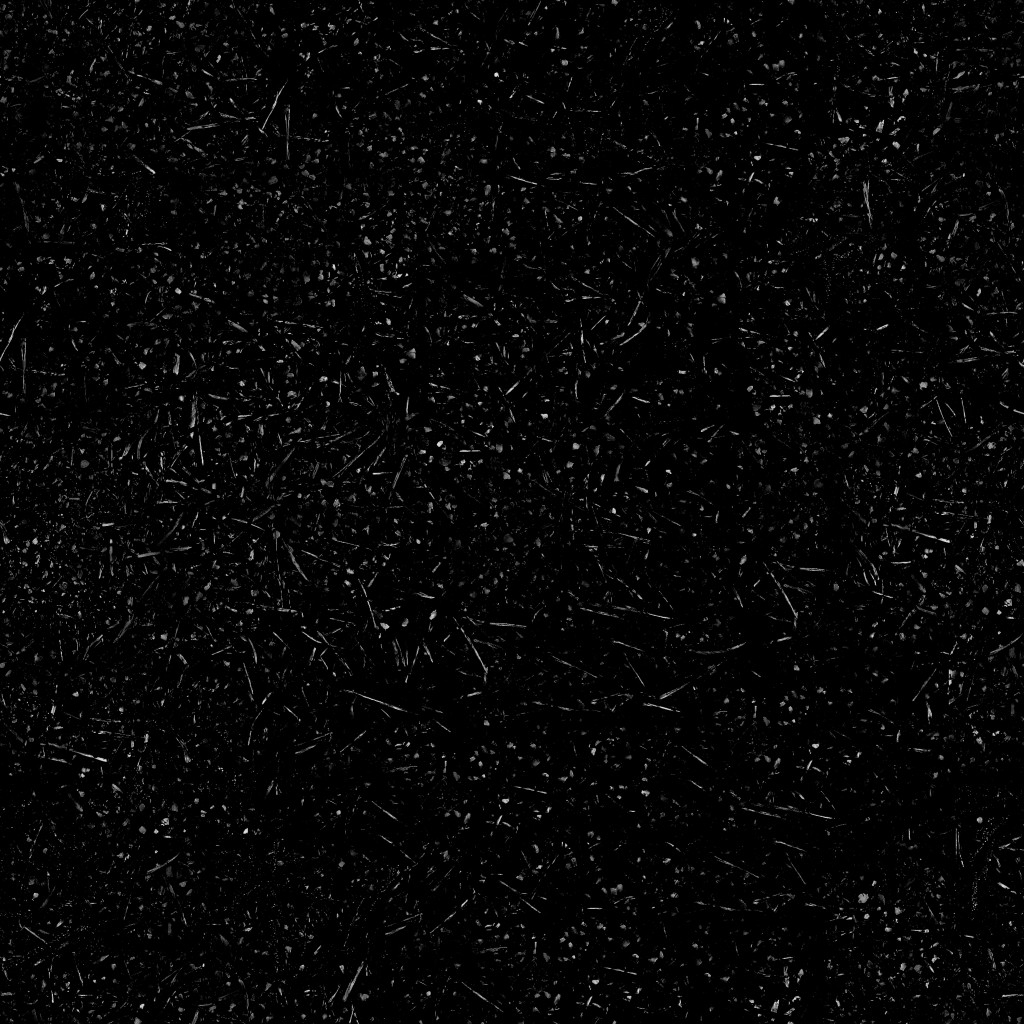
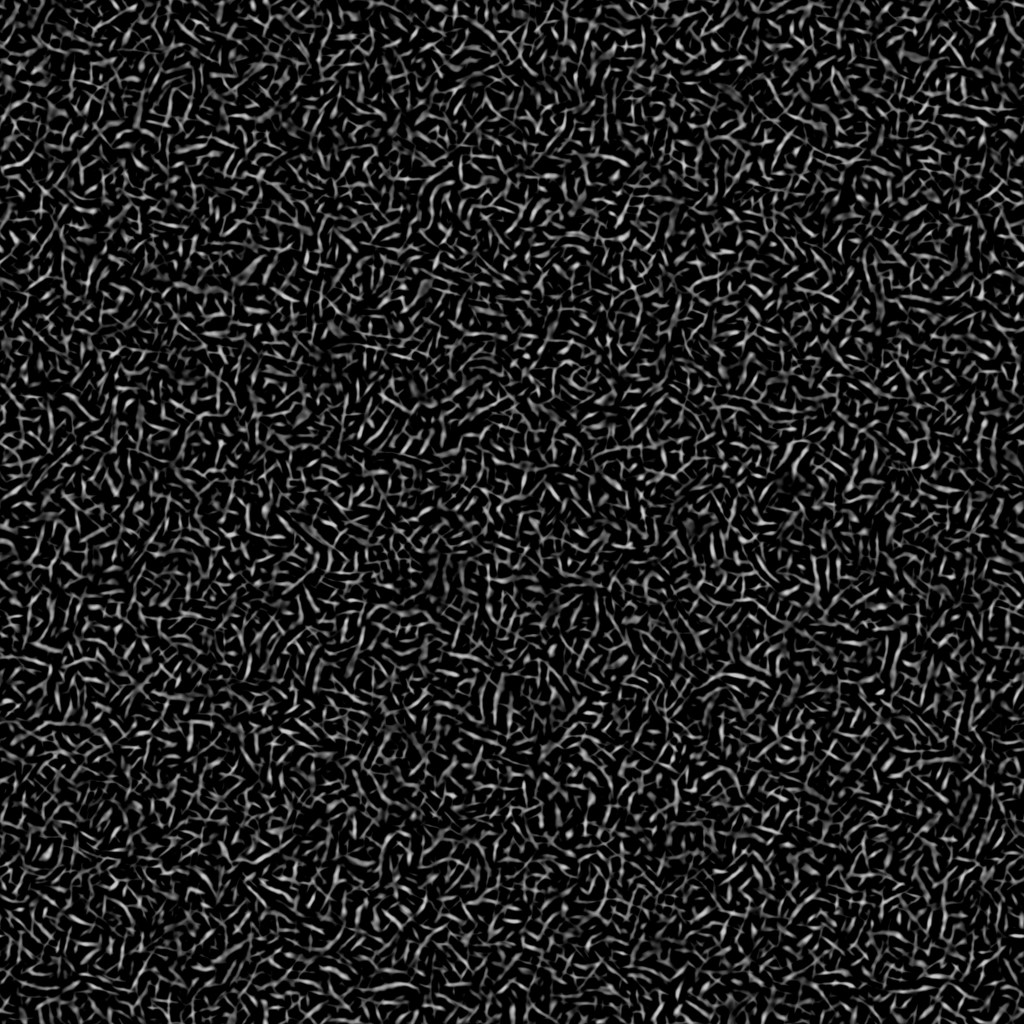
add textures

diff --git a/src/materials.ts b/src/materials.ts
@@ -1,9 +1,17 @@
 import * as Three from "three";
 import { loader } from "./textures";
 
-export const TRAIN = new Three.MeshPhongMaterial({
+const train_loader = loader("train", 2, 2);
+
+export const TRAIN = new Three.MeshPhysicalMaterial({
+    map: train_loader("texture.jpg"),
+    normalMap: train_loader("normal.jpg"),
+    normalScale: new Three.Vector2(10, 10),
+    aoMap: train_loader("ao.jpg"),
+    roughnessMap: train_loader("roughness.jpg"),
+    metalnessMap: train_loader("metallic.jpg"),
     color: 0x7e1414,
-    shininess: 100,
+    // shininess: 100,
 });
 
 const gravel_loader = loader("gravel", 1, 1);
@@ -13,7 +21,7 @@ export const GROUND = new Three.MeshPhysicalMaterial({
     normalMap: gravel_loader("normal.jpg"),
     normalScale: new Three.Vector2(10, 10),
     aoMap: gravel_loader("ao.jpg"),
-    roughnessMap: gravel_loader("roughtness.jpg"),
+    roughnessMap: gravel_loader("roughness.jpg"),
     color: 0xaaaaaa,
     // shininess: 15,
 });
@@ -23,52 +31,98 @@ export const PLASTIC = new Three.MeshPhongMaterial({
     shininess: 30,
 });
 
-export const RUBBER = new Three.MeshPhongMaterial({
+const metal_loader = loader("metal", 1, 1);
+
+export const RUBBER = new Three.MeshPhysicalMaterial({
+    map: metal_loader("texture.jpg"),
+    normalMap: metal_loader("normal.jpg"),
+    normalScale: new Three.Vector2(10, 10),
+    aoMap: metal_loader("ao.jpg"),
+    roughnessMap: metal_loader("roughness.jpg"),
+    metalnessMap: metal_loader("metallic.jpg"),
     color: "black",
-    shininess: 0,
+    // shininess: 0,
 });
 
-const metal_loader = loader("metal", 1, 1);
 
 export const METAL = new Three.MeshPhysicalMaterial({
     map: metal_loader("texture.jpg"),
     normalMap: metal_loader("normal.jpg"),
     normalScale: new Three.Vector2(10, 10),
     aoMap: metal_loader("ao.jpg"),
-    roughnessMap: metal_loader("roughtness.jpg"),
-    metalnessMap: metal_loader("metallic.jpg")
+    roughnessMap: metal_loader("roughness.jpg"),
+    metalnessMap: metal_loader("metallic.jpg"),
     // color: "silver",
     // shininess: 400,
 });
 
-export const WOOD = new Three.MeshPhongMaterial({
-    color: 0x493a24,
-    shininess: 10,
+const wood_loader = loader("trunk", 4, 4);
+
+export const WOOD = new Three.MeshPhysicalMaterial({
+    map: wood_loader("texture.jpg"),
+    normalMap: wood_loader("normal.jpg"),
+    normalScale: new Three.Vector2(10, 10),
+    aoMap: wood_loader("ao.jpg"),
+    roughnessMap: wood_loader("roughness.jpg"),
+    // color: 0x493a24,
+    // shininess: 10,
 });
 
+const leaves1_loader = loader("leaves2", 2, 2);
+const leaves2_loader = loader("leaves1", 6, 6);
+
 export const LEAVES = [
-    new Three.MeshPhongMaterial({
+    new Three.MeshPhysicalMaterial({
+        map: leaves1_loader("texture.jpg"),
+        normalMap: leaves1_loader("normal.jpg"),
+        normalScale: new Three.Vector2(5, 5),
+        aoMap: leaves1_loader("ao.jpg"),
+        roughnessMap: leaves1_loader("roughness.jpg"),
         color: 0x448912,
-        shininess: 50,
+        // shininess: 50,
     }),
-    new Three.MeshPhongMaterial({
+    new Three.MeshPhysicalMaterial({
+        map: leaves2_loader("texture.jpg"),
+        normalMap: leaves2_loader("normal.jpg"),
+        normalScale: new Three.Vector2(5, 5),
+        aoMap: leaves2_loader("ao.jpg"),
+        roughnessMap: leaves2_loader("roughness.jpg"),
         color: "green",
-        shininess: 10,
+        // shininess: 10,
     }),
-    new Three.MeshPhongMaterial({
+    new Three.MeshPhysicalMaterial({
+        map: leaves2_loader("texture.jpg"),
+        normalMap: leaves2_loader("normal.jpg"),
+        normalScale: new Three.Vector2(5, 5),
+        aoMap: leaves2_loader("ao.jpg"),
+        roughnessMap: leaves2_loader("roughness.jpg"),
         color: 0xc2dc1e,
-        shininess: 100,
+        // shininess: 100,
     }),
 ];
 
-export const BRICK = new Three.MeshPhongMaterial({
-    color: 0x945d43,
-    shininess: 50,
+const brick_loader = loader("brick", 0.1, 0.1);
+
+export const BRICK = new Three.MeshPhysicalMaterial({
+    map: brick_loader("texture.jpg"),
+    normalMap: brick_loader("normal.jpg"),
+    normalScale: new Three.Vector2(10, 10),
+    aoMap: brick_loader("ao.jpg"),
+    roughnessMap: brick_loader("roughness.jpg"),
+    metalnessMap: brick_loader("metallic.jpg"),
+    // color: 0x945d43,
+    // shininess: 50,
 });
 
-export const LAMP = new Three.MeshPhongMaterial({
+export const LAMP = new Three.MeshPhysicalMaterial({
+    map: metal_loader("texture.jpg"),
+    normalMap: metal_loader("normal.jpg"),
+    normalScale: new Three.Vector2(10, 10),
+    aoMap: metal_loader("ao.jpg"),
+    roughnessMap: metal_loader("roughness.jpg"),
+    metalnessMap: metal_loader("metallic.jpg"),
     color: 0x1e1e1e,
-    shininess: 70,
+    // shininess: 70,
 });
 
 export const LIGHT_ON = new Three.MeshPhongMaterial({
@@ -97,6 +151,6 @@ export const SLEEPER = new Three.MeshPhysicalMaterial({
     normalMap: sleeper_loader("normal.jpg"),
     normalScale: new Three.Vector2(10, 10),
     aoMap: sleeper_loader("ao.jpg"),
-    roughnessMap: sleeper_loader("roughtness.jpg"),
+    roughnessMap: sleeper_loader("roughness.jpg"),
     // shininess: 10,
 });

diff --git a/src/terrain.ts b/src/terrain.ts
@@ -10,38 +10,25 @@ export function build_terrain(scene: Three.Scene) {
     const loader = new Three.TextureLoader().setPath("images/maps/");
 
     const heightMap = loader.load("terrain/height.png");
-    const normalMap = loader.load("terrain/normal.png");
-
-    // const groundMaterial = new Three.MeshPhongMaterial({
-    //     color: 0x1d5121,
-    //     displacementMap: heightMap,
-    //     normalMap: normalMap,
-    //     displacementScale: 200,
-    //     shininess: 15,
-    // });
 
     const groundMaterial = new CustomShaderMaterial({
         baseMaterial: Three.MeshPhysicalMaterial,
         vertexShader: vertexShader,
         fragmentShader: fragmentShader,
         uniforms: {
-            texture1: { value: loader.load("gravel/texture.jpg") },
-            texture2: { value: loader.load("sleeper/texture.jpg") },
-            texture3: { value: loader.load("metal/texture.jpg") },
-            normal1: { value: loader.load("gravel/normal.jpg") },
-            normal2: { value: loader.load("sleeper/normal.jpg") },
-            normal3: { value: loader.load("metal/normal.jpg") },
-            startThreshold1: { value: 0.15 },
-            endThreshold1: { value: 0.2 },
-            startThreshold2: { value: 0.35 },
-            endThreshold2: { value: 0.5 },
-            repeat1: {value: [64, 64]},
-            repeat2: {value: [64, 64]},
-            repeat3: {value: [64, 64]}
+            texture1: { value: loader.load("sand/texture.jpg") },
+            texture2: { value: loader.load("grass/texture.jpg") },
+            texture3: { value: loader.load("snow/texture.jpg") },
+            startThreshold1: { value: 0.1 },
+            endThreshold1: { value: 0.185 },
+            startThreshold2: { value: 0.3 },
+            endThreshold2: { value: 0.45 },
+            repeat1: { value: [64, 64] },
+            repeat2: { value: [64, 64] },
+            repeat3: { value: [64, 64] },
         },
         displacementMap: heightMap,
         displacementScale: 200,
-        // normalMap: normalMap,
     });
 
     const terrain = P.plane(1024, groundMaterial, 256, false);

diff --git a/src/models/tree.ts b/src/models/tree.ts
@@ -5,12 +5,12 @@ import * as M from "../materials";
 export function createTree(size: number, material: number): Three.Object3D {
     const tree = P.empty();
 
-    const log = P.cone(1, 10, M.WOOD);
+    const log = P.cone(1, 10, M.WOOD, false);
     log.position.y = 4;
 
-    const leaf1 = P.sphere(2.5, M.LEAVES[material % M.LEAVES.length]);
-    const leaf2 = P.sphere(2.5, M.LEAVES[material % M.LEAVES.length]);
-    const leaf3 = P.sphere(2, M.LEAVES[material % M.LEAVES.length]);
+    const leaf1 = P.sphere(2.5, M.LEAVES[material % M.LEAVES.length], false);
+    const leaf2 = P.sphere(2.5, M.LEAVES[material % M.LEAVES.length], false);
+    const leaf3 = P.sphere(2, M.LEAVES[material % M.LEAVES.length], false);
 
     leaf1.position.set(1, 7, -1);
     leaf2.position.set(-1, 6, 0);

diff --git a/src/models/bridge.ts b/src/models/bridge.ts
@@ -2,6 +2,7 @@ import * as Three from "three";
 import * as M from "../materials";
 import * as P from "../primitives";
 import CameraManager from "../managers/camera";
+import { resetUVs } from "../textures";
 
 const SECTION_LENGTH = 12;
 const VERTICAL_LENGTH = 24;
@@ -119,6 +120,7 @@ function createSupport(): Three.Object3D {
     });
 
     const support = new Three.Mesh(geometry, M.BRICK);
+    resetUVs(support)
     support.castShadow = true;
     support.position.setZ(-D / 2);
     return support;
